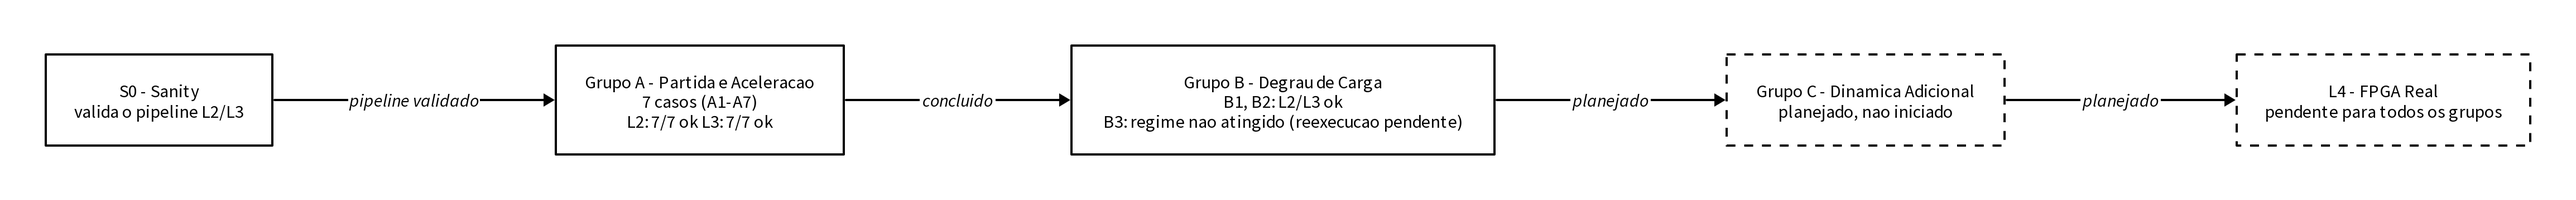
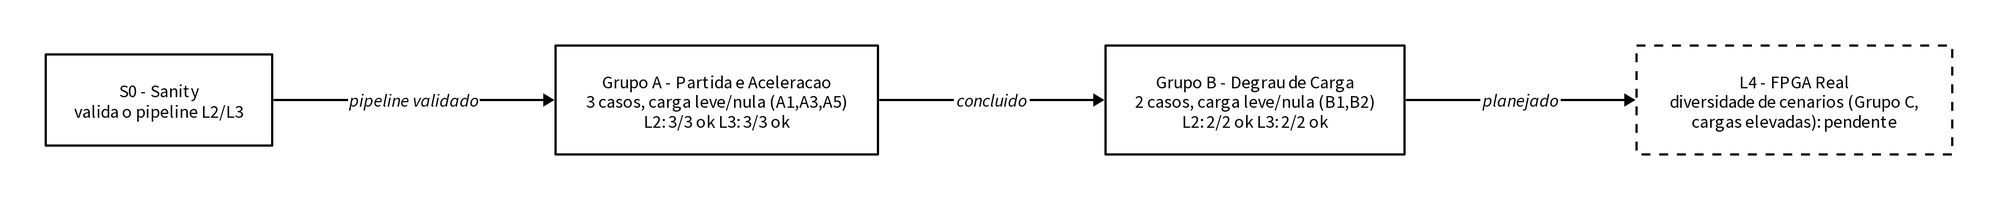
📝 docs(diagrams): simplify figure 06, reduced matrix A1/A3/A5, B1/B2

diff --git a/docs/diagrams/README.md b/docs/diagrams/README.md
@@ -26,14 +26,16 @@ do geral ao específico, sem nenhum bloco detalhado em dois lugares.
 
 Fora da sequência de arquitetura acima (00-05, cada uma detalhando um
 subsistema do outro): `06-validation-groups.d2` documenta a sequência dos
-grupos de ensaio da campanha de validação (S0 → Grupo A → Grupo B → Grupo C →
-L4), com status de execução L2/L3 por grupo — não parâmetros internos, que
-ficam na tabela da matriz de parâmetros do capítulo de resultados
-(`docs/results-chapter/`).
+grupos de ensaio da campanha de validação (S0 → Grupo A → Grupo B → L4), com
+status de execução L2/L3 por grupo. Grupo A e Grupo B usam matriz reduzida
+(carga leve/nula) por limitação do V/f em malha aberta sem boost/compensação
+de escorregamento; a diversidade de cenários mais ampla (Grupo C, cargas
+elevadas) fica reservada ao L4 — não parâmetros internos, que ficam na tabela
+da matriz de parâmetros do capítulo de resultados (`docs/results-chapter/`).
 
 | Arquivo | Figura | Mostra |
 |---|---|---|
-| `06-validation-groups.d2` | Sequência de validação experimental | S0 → Grupo A → Grupo B → Grupo C → L4, com status L2/L3 por grupo |
+| `06-validation-groups.d2` | Sequência de validação experimental | S0 → Grupo A → Grupo B → L4, com status L2/L3 por grupo |
 
 **Regra de fronteira:** cada conceito transversal é detalhado só no seu dono —
 cadeia de taxas → 00; clocks/CDC/decimador → 01; Q14.28/passo → 02; regimes
